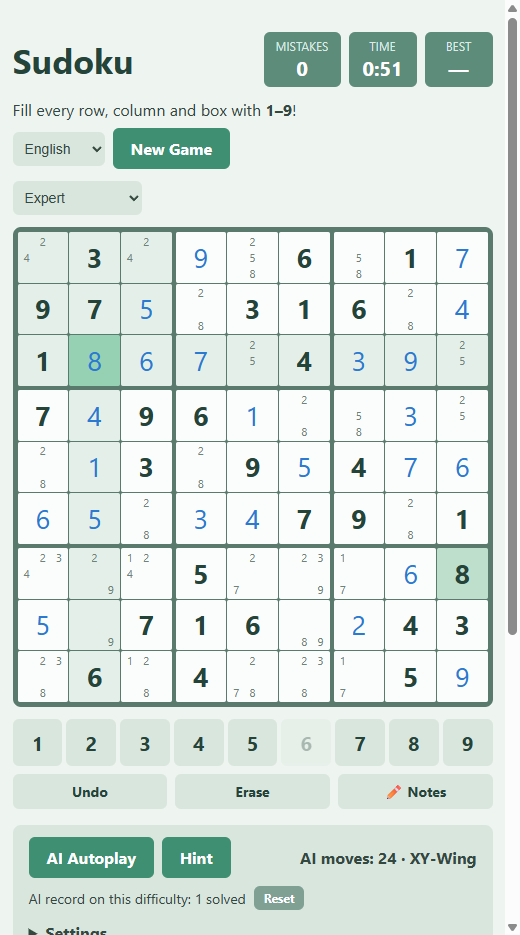
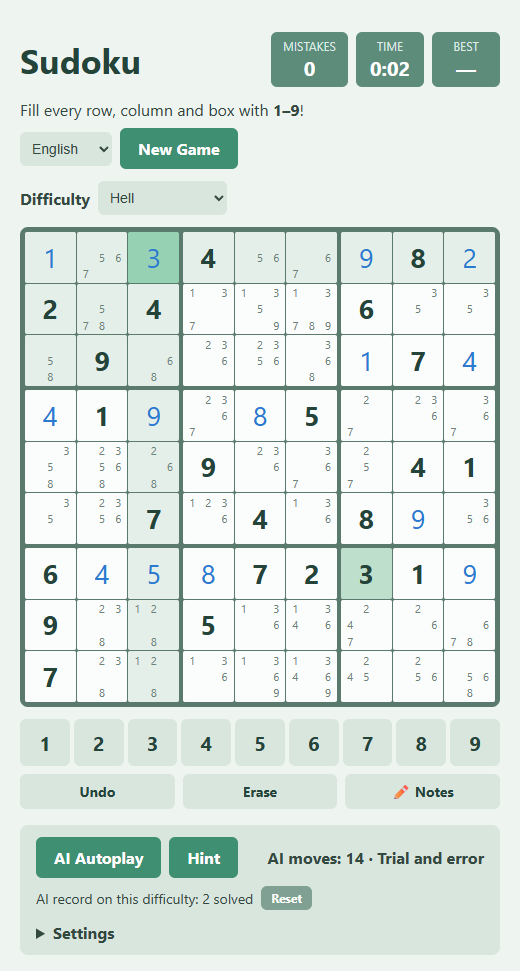
Add preview image and record demo media on Hell difficulty
- Open Graph preview image with og/twitter/JSON-LD image tags
- Demo GIF, README screenshot and preview image recorded on Hell
  difficulty
- Show the preview image at the top of the README

Changed region(s): [[0.0, 0.0, 1.0, 1.0], [0.9846, 0.9925, 1.0, 1.0]]

diff --git a/index.html b/index.html
@@ -14,9 +14,14 @@
 <meta property="og:url" content="https://mrdadado.github.io/Auto-Sudoku/">
 <meta property="og:title" content="Auto-Sudoku – Play Sudoku with an AI Autoplay Solver">
 <meta property="og:description" content="Play Sudoku in your browser, or let a logic-based AI solve it for you. Hints, custom puzzles, zero dependencies.">
-<meta name="twitter:card" content="summary">
+<meta property="og:image" content="https://mrdadado.github.io/Auto-Sudoku/assets/og-image.png">
+<meta property="og:image:width" content="1280">
+<meta property="og:image:height" content="640">
+<meta property="og:image:alt" content="Auto-Sudoku: a Sudoku puzzle being solved by an AI">
+<meta name="twitter:card" content="summary_large_image">
 <meta name="twitter:title" content="Auto-Sudoku – Play Sudoku with an AI Autoplay Solver">
 <meta name="twitter:description" content="Play Sudoku in your browser, or let a logic-based AI solve it for you.">
+<meta name="twitter:image" content="https://mrdadado.github.io/Auto-Sudoku/assets/og-image.png">
 
 <script type="application/ld+json">
 {
@@ -32,6 +37,7 @@
   "inLanguage": ["en", "zh-Hant", "zh-Hans", "ja", "ko"],
   "isAccessibleForFree": true,
   "offers": { "@type": "Offer", "price": "0", "priceCurrency": "USD" },
+  "image": "https://mrdadado.github.io/Auto-Sudoku/assets/og-image.png",
   "author": { "@type": "Person", "name": "MrDaDaDo", "url": "https://github.com/MrDaDaDo" },
   "sameAs": "https://github.com/MrDaDaDo/Auto-Sudoku"
 }

diff --git a/README.md b/README.md
@@ -1,5 +1,7 @@
 <div align="center">
 
+<img src="assets/og-image.png" alt="Auto-Sudoku: play Sudoku in your browser, or let a logic-based AI solve it for you" width="640">
+
 # Auto-Sudoku
 
 **Sudoku in the browser with a logic-based AI that solves it for you, one technique at a time.**
@@ -13,9 +15,9 @@
 ![Vanilla JS](https://img.shields.io/badge/vanilla-JavaScript-f7df1e.svg?logo=javascript&logoColor=black)
 [![GitHub stars](https://img.shields.io/github/stars/MrDaDaDo/Auto-Sudoku?style=social)](https://github.com/MrDaDaDo/Auto-Sudoku/stargazers)
 
-<img src="assets/demo.gif" alt="The AI solving an Expert puzzle with candidates shown" width="400">
+<img src="assets/demo.gif" alt="The AI solving a Hell puzzle with candidates shown" width="400">
 
-<sub>The AI solving an Expert puzzle one cell at a time, with candidates shown and the technique of each move</sub>
+<sub>The AI solving a Hell puzzle (25 givens) one cell at a time, with candidates shown and the technique of each move</sub>
 
 </div>
 
@@ -62,7 +64,7 @@ The solver keeps a set of **candidates** (the digits that can still go there) fo
 
 Singles place a digit; the other techniques only remove candidates, and the solver keeps applying them until a single appears. Each AI move fills exactly one cell and is labelled with the hardest technique it needed.
 
-<img src="assets/screenshot.png" alt="An Expert puzzle mid-solve, right after an XY-Wing move" width="400">
+<img src="assets/screenshot.png" alt="A Hell puzzle mid-solve, right after a trial-and-error move" width="400">
 
 If logic runs out (which happens on **Hell** puzzles and can happen on a **custom puzzle**), the solver falls back to a **backtracking search** that always branches on the cell with the fewest candidates, and the move is labelled *Trial and error*. The same search checks that a custom puzzle has exactly one solution before the game starts.
 
